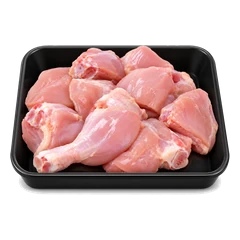
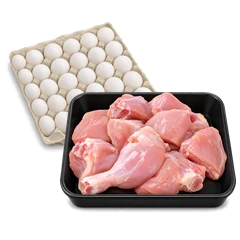
Eggs, Meat & Fish and Dairy & Beverages sections
Eggs join chicken, and Dairy joins Tea & Beverages in Dairy's old place; new pictures for both (egg tray with
chicken; milk, Bournvita and tea), egg icon for the meat section, and the SQL that moves the items and removes
the empty Dairy section.

diff --git a/src/components/icons.jsx b/src/components/icons.jsx
@@ -1,11 +1,11 @@
 import {
-  Bean, Carrot, Coffee, Nut, Cookie, CookingPot, CupSoda, Drumstick, Droplet, Flame, House, Milk, Package, PartyPopper, Soup, Sparkles, SprayCan, Wheat,
+  Bean, Carrot, Coffee, Nut, Cookie, CookingPot, CupSoda, Droplet, Egg, Flame, House, Milk, Package, PartyPopper, Soup, Sparkles, SprayCan, Wheat,
 } from 'lucide-react'
 
 const CATEGORY_ICONS = {
   atta: Wheat, rice: CookingPot, daal: Bean, oil: Droplet, masala: Soup, dairy: Milk,
   snacks: Cookie, beverages: Coffee, colddrinks: CupSoda, personal: Sparkles, cleaning: SprayCan,
-  vegetables: Carrot, dryfruits: Nut, pooja: Flame, home: House, party: PartyPopper, meat: Drumstick,
+  vegetables: Carrot, dryfruits: Nut, pooja: Flame, home: House, party: PartyPopper, meat: Egg,
 }
 
 // Products without a photo show their category icon (plan section 7).

diff --git a/src/lib/productInfo.js b/src/lib/productInfo.js
@@ -23,7 +23,7 @@ const ABOUT = {
   pooja: 'For daily pooja and festivals.',
   home: 'A useful everyday item for your home and kitchen.',
   party: 'For birthdays and celebrations.',
-  meat: 'Fresh, cut and packed for your order.',
+  meat: 'Fresh, packed for your order.',
 }
 const STORAGE = {
   atta: 'Store in a cool, dry place in an airtight container.',
@@ -36,7 +36,7 @@ const STORAGE = {
   dryfruits: 'Store in an airtight container, away from moisture.',
   dairy: 'Keep refrigerated.',
   vegetables: 'Wash before use.',
-  meat: 'Keep refrigerated and cook within a day.',
+  meat: 'Keep refrigerated.',
 }
 
 export const aboutText = (p) => p.description?.trim() || `${p.name}, ${p.size}. ${ABOUT[p.category_id] ?? 'Delivered to your door in Dergaon.'}`

diff --git a/src/lib/categoryLook.js b/src/lib/categoryLook.js
@@ -7,7 +7,7 @@ export const CATEGORY_LOOK = {
   masala: ['#C8582F', 'Masala & Salt'],
   dairy: ['#3F86C9', 'Dairy'],
   snacks: ['#E0722C', 'Snacks'],
-  beverages: ['#8A5A3B', 'Tea & Coffee'],
+  beverages: ['#8A5A3B', 'Dairy & Beverages'],
   colddrinks: ['#D9443C', 'Cold Drinks'],
   personal: ['#8D62C4', 'Personal Care'],
   cleaning: ['#2A9D8F', 'Cleaning'],
@@ -16,7 +16,7 @@ export const CATEGORY_LOOK = {
   pooja: ['#D9772B', 'Pooja Needs'],
   home: ['#2F7FB5', 'Home & Kitchen'],
   party: ['#D6457A', 'Party & Birthday'],
-  meat: ['#B5463A', 'Meat & Fish'],
+  meat: ['#B5463A', 'Eggs, Meat & Fish'],
 }
 export const categoryTint = (id) => CATEGORY_LOOK[id]?.[0] ?? '#1F6B3A'
 

diff --git a/src/lib/seed.js b/src/lib/seed.js
@@ -20,7 +20,7 @@ export const CATEGORIES = [
   { id: 'pooja', name: 'Pooja Needs', short: 'Pooja' },
   { id: 'home', name: 'Home & Kitchen', short: 'Home & Kitchen' },
   { id: 'party', name: 'Party & Birthday', short: 'Party' },
-  { id: 'meat', name: 'Meat & Fish', short: 'Meat & Fish' },
+  { id: 'meat', name: 'Eggs, Meat & Fish', short: 'Eggs, Meat & Fish' },
 ]
 
 // [name, size, category, keywords, demo price]
